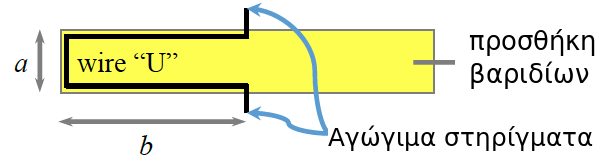
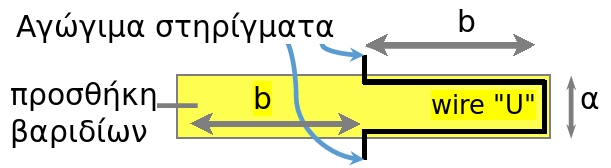
ergastirio allages

diff --git a/_posts/2019-12-14-ergasitirio_B.md b/_posts/2019-12-14-ergasitirio_B.md
@@ -14,7 +14,8 @@ tags: [Ηλεκτρομαγνητισμός]
 ![σχήμα]({{ site.url }}/assets/zigos2.png) 
 
 στην οποία έχει δηµιουργηθεί περιµετρικά αγωγός "wire U" που καταλήγει σε άγκιστρα 
-ανάρτησης τοποθετηµένα στη µέση της κάθε µεγάλης πλευράς. Έτσι, η πλακέτα µπορεί να 
+ανάρτησης τοποθετηµένα στη µέση της κάθε µεγάλης πλευράς και μπορεί να περιστρέφεται
+γύρω από τον άξονα που περνά από τα μέσα των δύο απέναντι πλευρών χωρίς τριβές. Έτσι, η πλακέτα µπορεί να 
 αναρτάται σε κατάλληλα αγώγιµα στηρίγµατα στερεωµένα στην άκρη σωληνοειδούς πηνίου 
 ούτως ώστε το µισό µέρος της να βρίσκεται µέσα στο πηνίο και το άλλο µισό έξω απ΄ αυτό. 
 
@@ -36,14 +37,14 @@ tags: [Ηλεκτρομαγνητισμός]
 
 ![σχήμα]({{ site.url }}/assets/zigos.png) 
 
-Οι μαθητές προσθέτουν ανά τέσσερα τα βαρύδια στο μέσον της πλευράς της εποξικής πλακέτας και αυτή γέρνει
-προς τα κάτω. Στη συνέχεια αυξάνουν την τάση εξόδου του τροφοδοτικού μέχρις ότου η εποξική
+Οι μαθητές προσθέτουν ανά τέσσερα τα βαρύδια στο μέσον της πλευράς, σε απόσταση $$b$$ από τον άξονα περιστροφής της εποξικής πλακέτας 
+και αυτή γέρνει προς τα κάτω. Στη συνέχεια αυξάνουν την τάση εξόδου του τροφοδοτικού μέχρις ότου η εποξική
 πλακέτα να επανέλθει στην αρχική της θέση. Σημειώνουν τον αριθμό των βαρυδίων και την ένδειξη
 του αμπερομέτρου $$Ι$$ και με την βοήθεια αριθμομηχανής κατασκευάζουν τον παρακάτω πίνακα:
 
 $$
 \begin{array}{c c c}
-βαρίδια & Ι & I^2\\
+Αριθμός \quad βαρυδίων & Ι(Α) & I^2(Α^2)\\
 2 & 0.95 & 0.91 \\
 6 & 1.65 & 2.73 \\
 10 & 2.13 & 4.55 \\
@@ -54,14 +55,14 @@ $$
 
 Θεωρήστε δεδομένη την επιτάχυνση της βαρύτητας $$g = 10 \frac{m}{s^2}$$ και την 
 μαγνητική σταθερά $$k_μ = 10^{-7} \frac{N}{Α^2}$$.
-Ο διατιθέµενος εξοπλισµός περιλαµβάνει ένα σωληνοειδές πηνίο $$Ν=550$$ σπειρών.
-Το μήκος του σωληνοειδούς είναι:
+Ο διατιθέµενος εξοπλισµός περιλαµβάνει ένα σωληνοειδές (πηνίο) $$Ν=550$$ σπειρών.
+Το μήκος του σωληνοειδούς είναι *περίπου*:
 
-$$α. \quad l = 2π \quad cm$$
+$$α. \quad l = 2π \cdot 10^{-2} m$$
 
-$$β. \quad l = 4π \quad cm$$
+$$β. \quad l = 4π \cdot 10^{-2} m$$
 
-$$γ. \quad l = 6π \quad cm$$
+$$γ. \quad l = 6π \cdot 10^{-2} m$$
 
 α) Να επιλέξετε την σωστή απάντηση.
 
